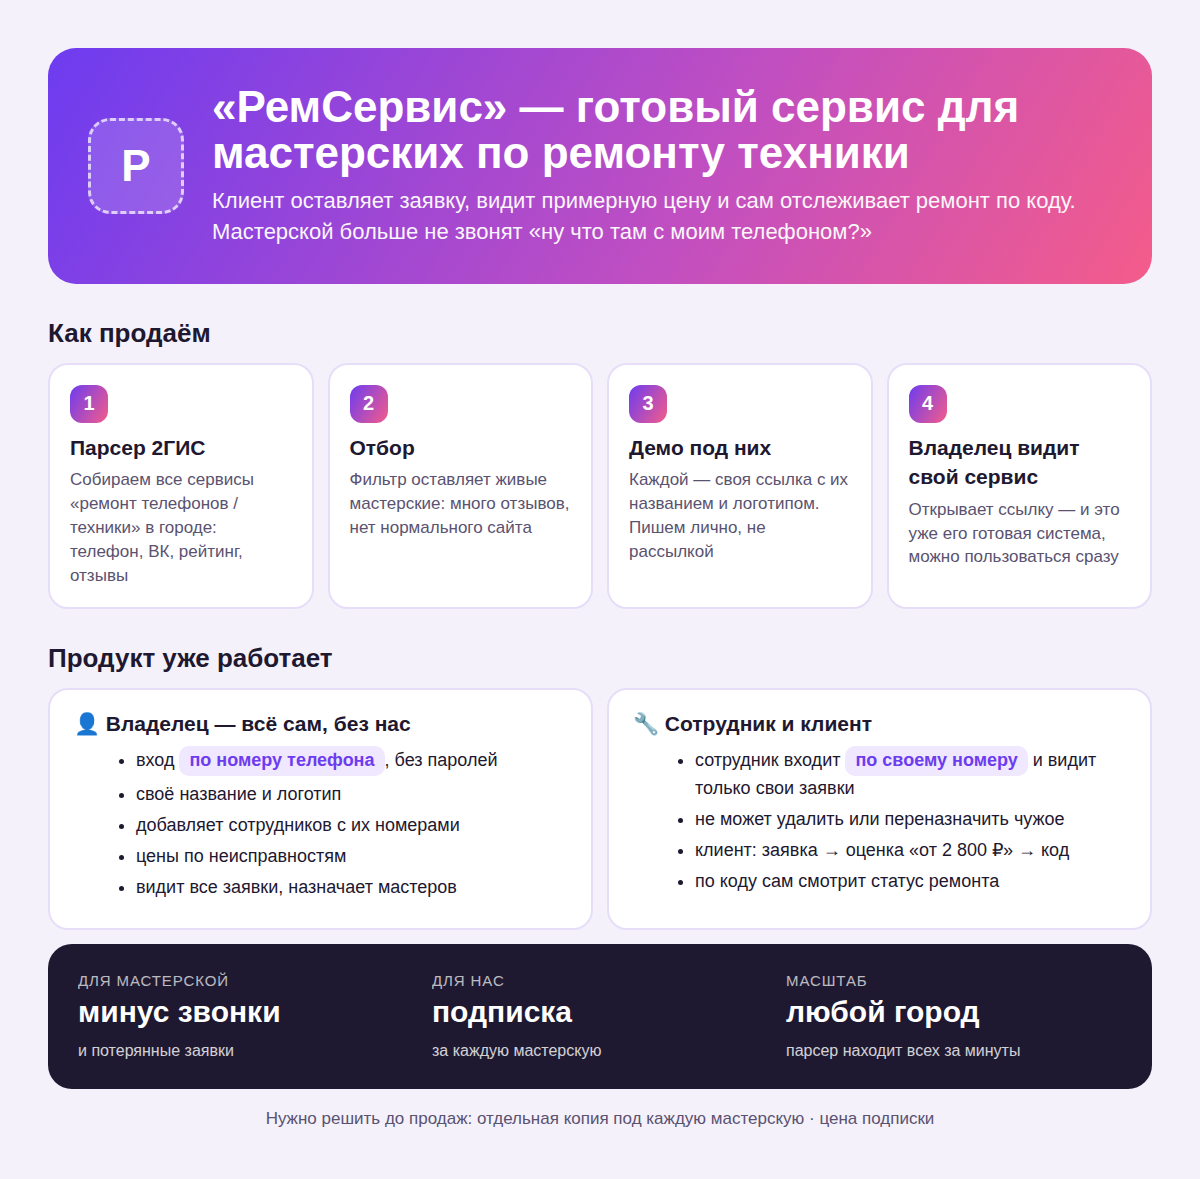
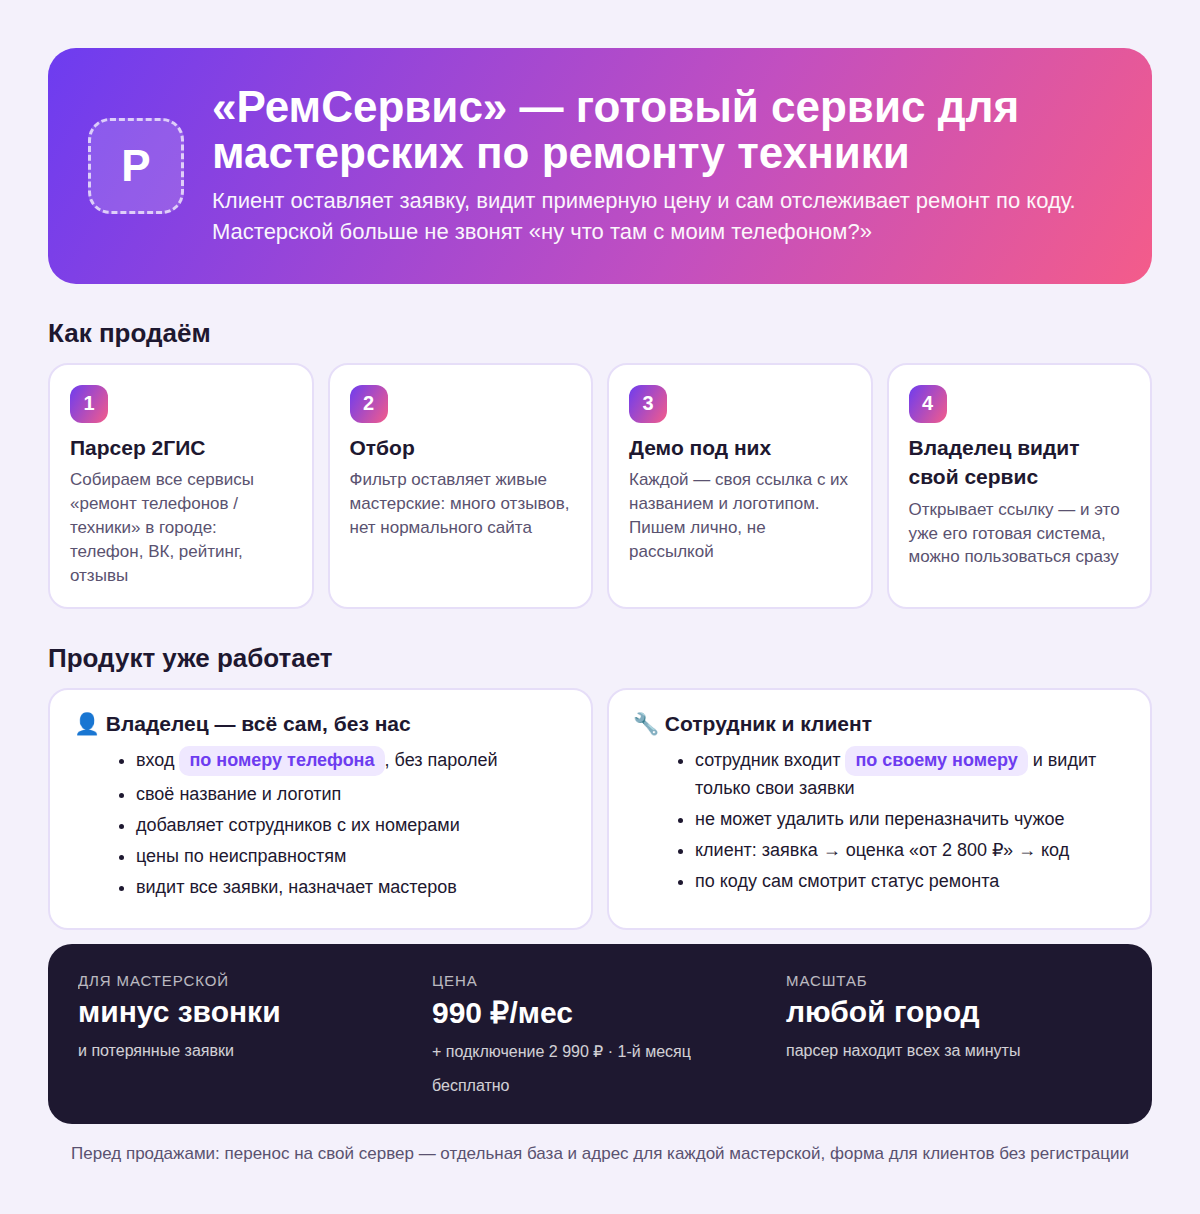
РемСервис: цены подписки на картинке
Claude-Session: https://claude.ai/code/session_01P2UFw9tTkDcF63ah4eNZqX

diff --git a/remservis/idea.html b/remservis/idea.html
@@ -52,8 +52,8 @@ h2{font:700 26px Manrope,sans-serif;margin:34px 0 14px}
 
 <div class="money">
  <div><div class="k">Для мастерской</div><div class="v">минус звонки<br><small>и потерянные заявки</small></div></div>
- <div><div class="k">Для нас</div><div class="v">подписка<br><small>за каждую мастерскую</small></div></div>
+ <div><div class="k">Цена</div><div class="v">990 ₽/мес<br><small>+ подключение 2 990 ₽ · 1-й месяц бесплатно</small></div></div>
  <div><div class="k">Масштаб</div><div class="v">любой город<br><small>парсер находит всех за минуты</small></div></div>
 </div>
-<div class="foot">Нужно решить до продаж: отдельная копия под каждую мастерскую · цена подписки</div>
+<div class="foot">Перед продажами: перенос на свой сервер — отдельная база и адрес для каждой мастерской, форма для клиентов без регистрации</div>
 </body></html>
